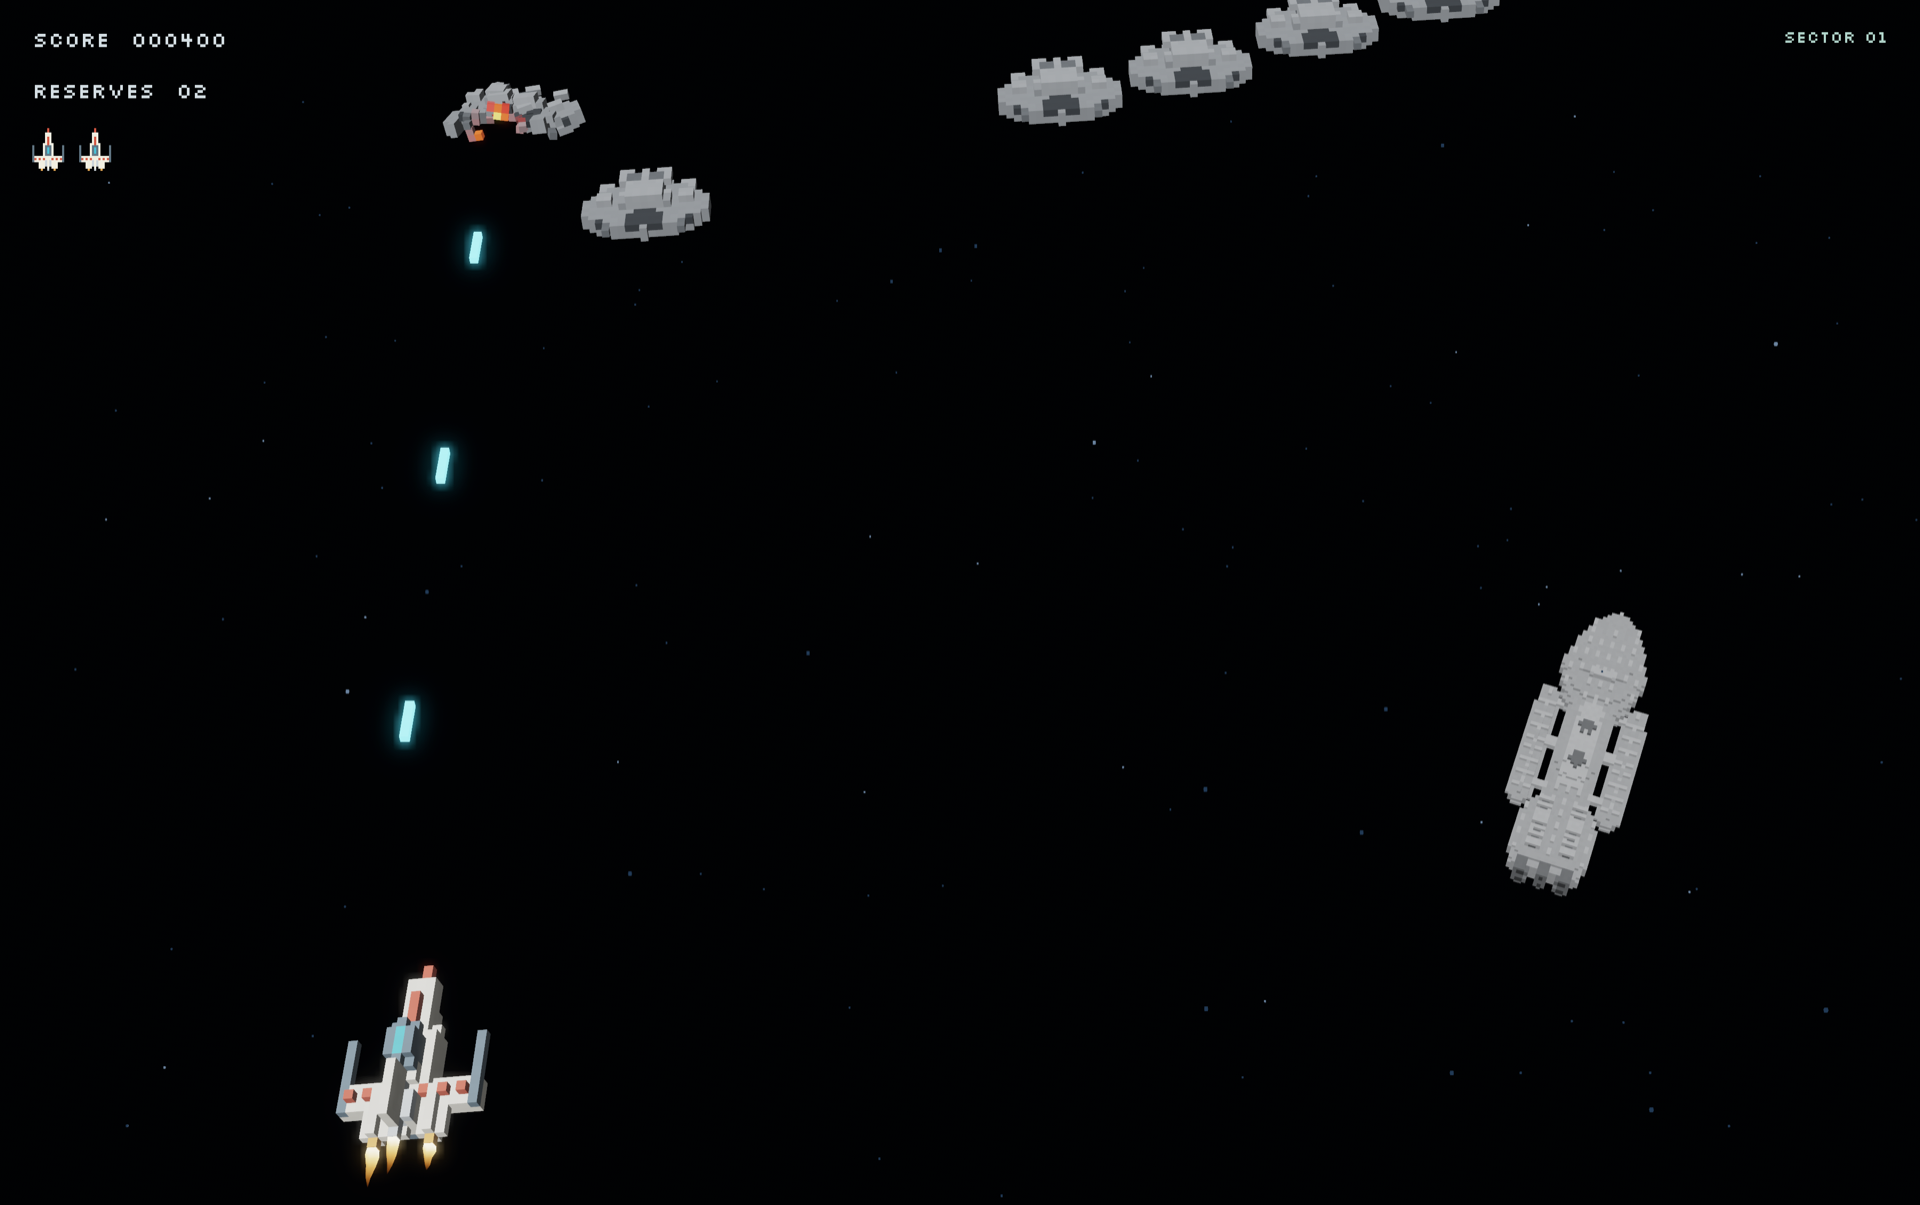
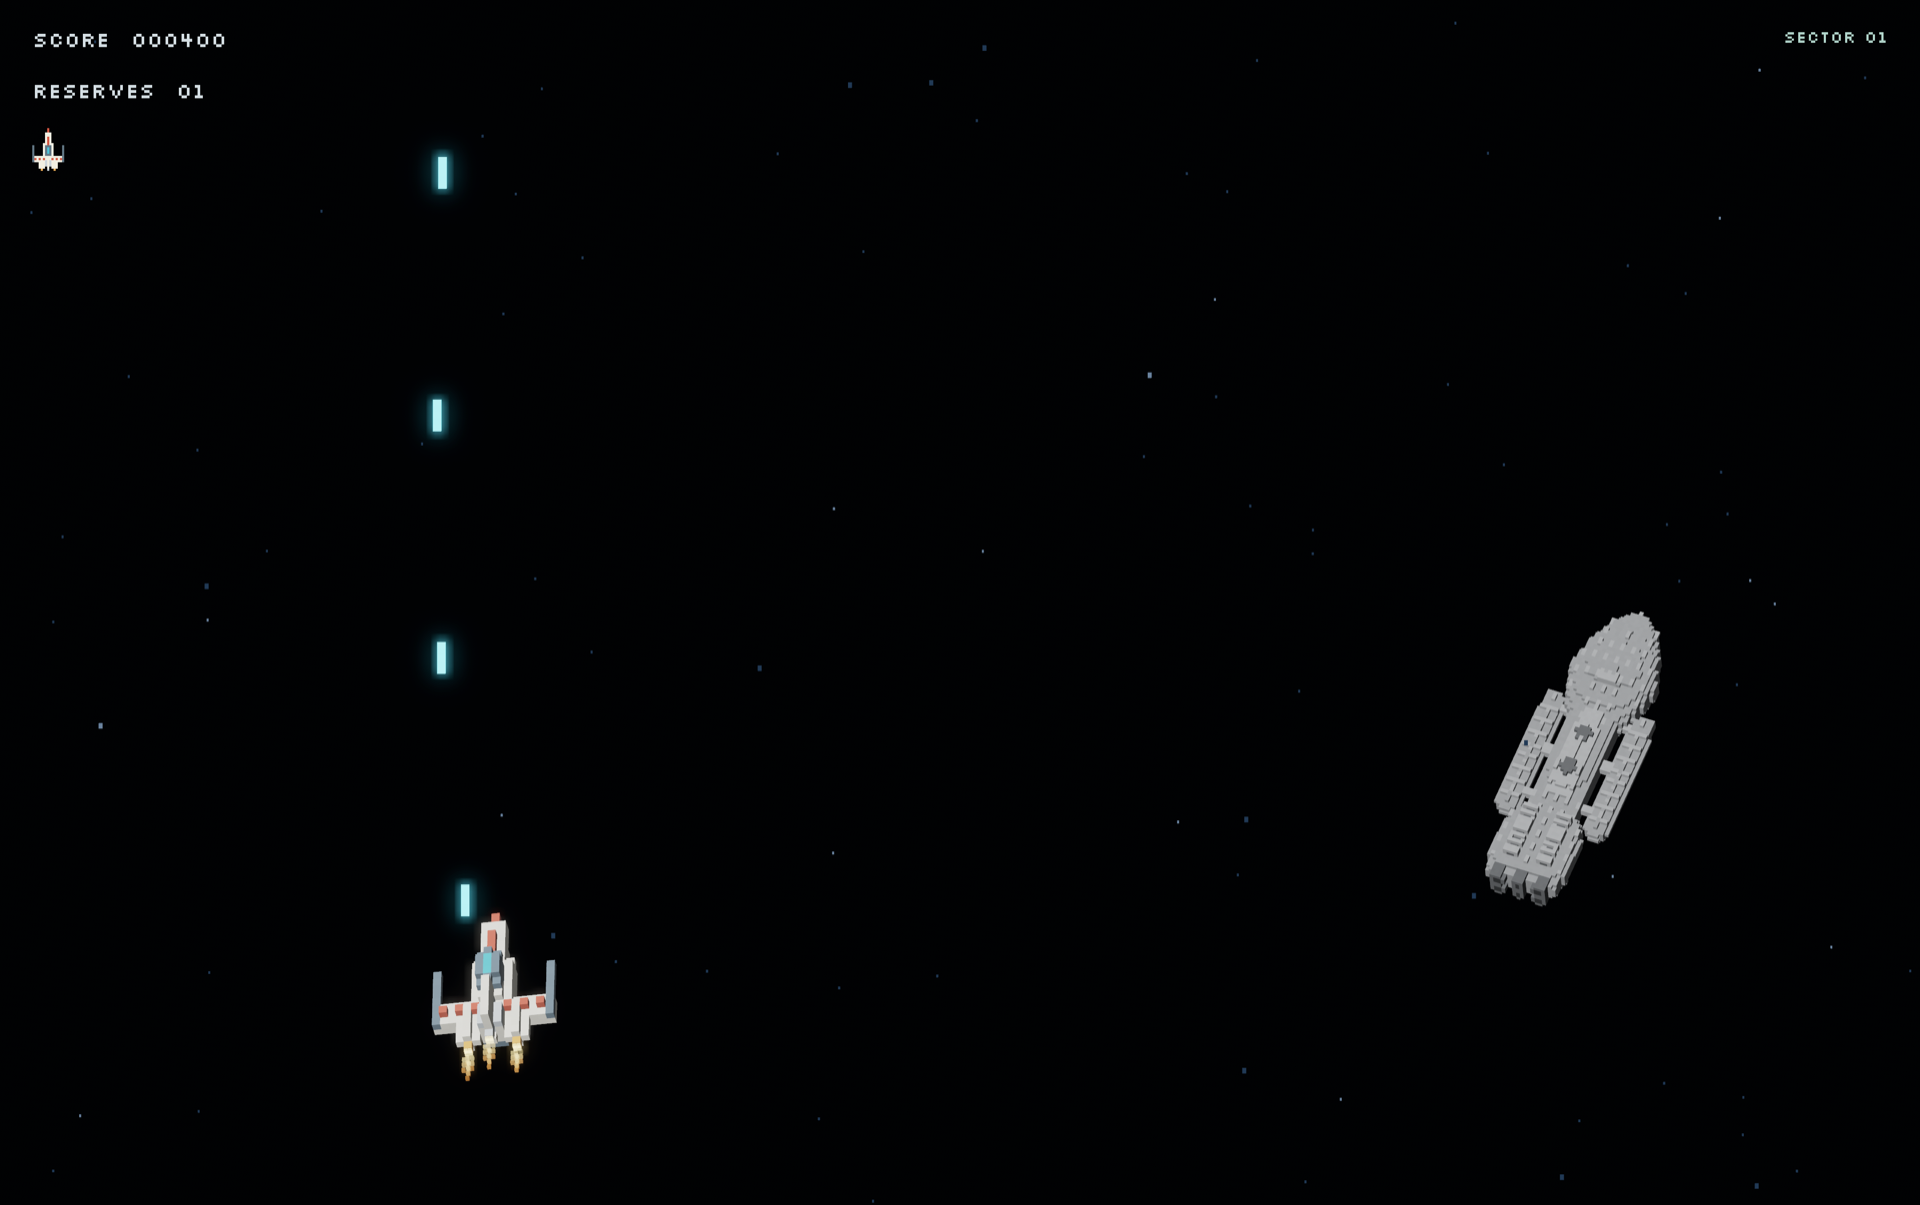
Document verified v0.4.3 desktop release and refreshed captures

diff --git a/docs/Release_Validation.md b/docs/Release_Validation.md
@@ -1,12 +1,28 @@
 # Desktop release validation · v0.4.3
 
-Mac build 16, verified 31-Oct-2026. All 90 pure tests, formatting and release graphics Clippy pass locally. Exhaust topology regression fails on the old connected 20-vertex skin and passes for independent cube faces with one fixed edge length; no triangles connect different exhaust cubes. Visible cubes flow while cycling through dim endpoints; the nozzle core remains lit and behind both hulls.
+Mac build 19, verified 31-Oct-2026. All 100 pure regression tests, formatting and release graphics Clippy pass locally. Tests reproduce the former depth misses and life-loss X reset, compare projected occupied-voxel collision against an independent convex-hull reference, and check both complete Galactica hulls across desktop, Retina, tall and ultrawide views.
 
-The complete native replay passes both eras, projectile colors, exhaust animation, collision/cooling/subdivision, pause/restart, resize, minimum-size menu and normal Quit Game shutdown. Across 152,405 unobstructed debris steps there were zero velocity/course changes and zero measured path error. All 219 split translation samples inherited velocity without impulse. Peak speed remains 36.000; no significant camera-approach steps occurred (maximum collision-skin correction 0.005633 world units, below the 0.01 diagnostic tolerance). Only actual hull contacts may change a trajectory.
+Rendering uses orthographic projection with angled voxel models. Cosmetic depth cannot shift drawn XY. Actual renderer audits check enemy/shot alignment, projectile ownership/color, leading-face contact alignment and continuous player visibility. The full native replay verifies nonfatal position continuity, both eras, exhaust, debris collision/cooling/subdivision, pause/restart, resizing and normal Quit Game shutdown. Seven native viewport/era checks confirm that the complete Galactica stays inside the view; its right-side position and apparent size match the earlier composition.
 
-At physical 1920×1080, 1,020 frames averaged 8.342 ms / p95 8.783 ms (about 120 FPS) on Apple M5. Complete 5,451-frame scenario mean 8.37 ms / p95 8.78 ms. These are bounded measurements, not universal hardware guarantees. Faster departure follows launch momentum; no artificial late steering, timed in-view deletion or geometry scaling was introduced.
+Exhaust consists of separate fixed-size glowing cubes, a steady nozzle core and irregular flowing streams. The topology regression rejects the former connected skin. Debris launches faster once and remains ballistic while unobstructed. Across 104,949 native unobstructed steps, velocity/course changes and path error were zero; all 257 split samples inherited translation without impulse. Peak speed was 36.000; there were no significant camera-approach steps. Maximum collision-skin correction was 0.005633 world units, below the 0.01 diagnostic tolerance. Genuine hull contacts may deflect fragments. Opaque geometry darkens into spatial shadow and retires only outside the viewport.
 
-Native Windows/Linux package jobs and final artifact receipts will be recorded after completion. Graphical gameplay on those systems remains untested. Existing private incorporated-audio, licensing and fan-rights boundaries remain applicable.
+At physical 1920×1080, 1,020 frames averaged 8.334 ms / p95 8.707 ms (about 120 FPS) on Apple M5. The complete 5,168-frame scenario averaged 8.37 ms / p95 8.74 ms. These are bounded hardware/workload measurements. Compiled source is `c0e7d554d2e0b40d42c710ecdf91c216c58d74e2`.
+
+The macOS bundle keeps its portable underscore filename and uses the localized display title “Battlestar: Voxel Squadron.” The final app and DMG are Developer ID signed, notarized, stapled and Gatekeeper-accepted. The installed app came from a read-only DMG mount and matches the native-tested signed executable. Windows/Linux native packages and independent archive checks pass. Each native runner passed all 100 tests and graphics Clippy before linking and packaging. Graphical Windows/Linux gameplay remains untested. Existing incorporated-audio, licensing and fan-rights boundaries remain applicable.
+
+## v0.4.3 Mac package identity
+
[1 lines of base64/hex data omitted]
+
+## v0.4.3 native package checks
+
+[Native Windows/Linux run](https://github.com/Kian-hdr/Battlestar_Voxel_Squadron/actions/runs/41198148699) and [source checks](https://github.com/Kian-hdr/Battlestar_Voxel_Squadron/actions/runs/41198148915) succeeded for the compiled source above.
+
+- Windows x64: PE32+ GUI executable, 254 files and 253 internal checksums; safe paths, source notices and approved embedded audio verified. Ordinary Git text files contain only expected CRLF conversion; byte-preserved notices remain exact. Windows is unsigned.
+- Linux x64: ELF64 native executable, 255 files and 254 internal checksums; executable/launcher modes, safe paths, source-pinned notices and approved embedded audio pass all 17 checks.
+- Mac Apple Silicon: final signed/notarized DMG and mounted/copied installed app pass the checks above.
+
+Three platform archives, their individual checksum files and aggregate `SHA256SUMS.txt` form seven release assets. Final documentation/screenshots are the only changes after the compiled source. Screenshots are actual final game captures resized to at most 1920 pixels; original captures are retained. No AI raster generation or content retouching was used. Windows/Linux graphical gameplay remains untested; native builds and archive checks are distinct from target-device gameplay.
 
 ## Historical v0.4.2 validation
 

diff --git a/README.md b/README.md
@@ -1,6 +1,6 @@
 # Battlestar: Voxel Squadron
 
-A native Rust 3D voxel arcade game by **Kian Konrad Tajbakhsh**. Fly a Viper, defend the fleet, and break Cylon formations. Ships are built from editable voxel cells, and destroyed hulls break into connected, cooling debris.
+A native Rust arcade game with 3D voxel ships by **Kian Konrad Tajbakhsh**. Fly a Viper, defend the fleet, and break Cylon formations. Ships are built from editable voxel cells, and destroyed hulls break into connected, cooling debris.
 
 ![Classic fleet combat](docs/Screenshots/Classic_Combat.png)
 
@@ -8,11 +8,11 @@ A native Rust 3D voxel arcade game by **Kian Konrad Tajbakhsh**. Fly a Viper, de
 
 Get the desktop packages from [GitHub Releases](https://github.com/Kian-hdr/Battlestar_Voxel_Squadron/releases). This is an early playable fan prototype.
 
-- **[macOS DMG, Apple Silicon](https://github.com/Kian-hdr/Battlestar_Voxel_Squadron/releases/download/v0.4.2/Battlestar_Voxel_Squadron_v0.4.2_macOS_Apple_Silicon.dmg):** open the DMG, drag `Battlestar_Voxel_Squadron.app` to Applications, then launch it.
-- **[Windows ZIP, x64](https://github.com/Kian-hdr/Battlestar_Voxel_Squadron/releases/download/v0.4.2/Battlestar_Voxel_Squadron_v0.4.2_Windows_x86_64.zip):** extract the ZIP and run `Battlestar_Voxel_Squadron.exe`.
-- **[Linux archive, x64](https://github.com/Kian-hdr/Battlestar_Voxel_Squadron/releases/download/v0.4.2/Battlestar_Voxel_Squadron_v0.4.2_Linux_x86_64.tar.gz):** extract the archive, install the runtime libraries listed in its README, and run `./Battlestar_Voxel_Squadron` in a graphical session with a Vulkan driver.
+- **[macOS DMG, Apple Silicon](https://github.com/Kian-hdr/Battlestar_Voxel_Squadron/releases/download/v0.4.3/Battlestar_Voxel_Squadron_v0.4.3_macOS_Apple_Silicon.dmg):** open the DMG, drag `Battlestar_Voxel_Squadron.app` to Applications, then launch it.
+- **[Windows ZIP, x64](https://github.com/Kian-hdr/Battlestar_Voxel_Squadron/releases/download/v0.4.3/Battlestar_Voxel_Squadron_v0.4.3_Windows_x86_64.zip):** extract the ZIP and run `Battlestar_Voxel_Squadron.exe`.
+- **[Linux archive, x64](https://github.com/Kian-hdr/Battlestar_Voxel_Squadron/releases/download/v0.4.3/Battlestar_Voxel_Squadron_v0.4.3_Linux_x86_64.tar.gz):** extract the archive, install the runtime libraries listed in its README, and run `./Battlestar_Voxel_Squadron` in a graphical session with a Vulkan driver.
 
-v0.4.2 fixes late depth targeting and the red impact-beam artifact, adds flowing tapered exhaust and receding debris, and includes Quit Game in the menu. See [release notes](docs/Release_Notes.md).
+v0.4.3 fixes strict 2D projectile hits and Viper position jumps, restores full Galactica framing, adds flowing voxel exhaust and fast straight-flight debris, and preserves the proper app display name and menu Quit Game. See [release notes](docs/Release_Notes.md).
 
 No account, server or internet connection is needed to play. [Validation notes](docs/Release_Validation.md) state which platforms were build-tested and which were played. Windows binaries are unsigned; SmartScreen may show an unknown-publisher warning.
 
@@ -31,7 +31,7 @@ The menu includes effects volume, mute and a sound preview. Default effects volu
 
 Three Vipers, 24 Raiders per wave, 100 points for a formation kill and 200 for a diving kill. Survive faster waves with bounded attack rates and brief respawn protection. Sectors 1–3 use the classic 1978 fleet; sector 4 onward changes the entire fleet to the reimagined 2004 era.
 
-The fixed-step simulation handles horizontal arcade combat while ships bank and avoid each other in 3D. Friendly fire follows aligned enemies in depth so cinematic flight height does not make them unreachable. Debris comes from actual model cells, remains in connected chunks, cools in flight and deflects from other hulls.
+The fixed-step simulation handles horizontal arcade combat while ships bank and avoid each other in 3D. Combat uses a strict 2D plane: shots hit the visible occupied voxel silhouette regardless of cosmetic depth. The orthographic camera retains angled voxel models without depth parallax. Debris comes from actual model cells, remains in connected chunks, cools in flight and deflects from other hulls.
 
 ![Menu](docs/Screenshots/Menu.png)
 ![Reimagined fleet](docs/Screenshots/Reimagined_Combat.png)

diff --git a/docs/Release_Notes.md b/docs/Release_Notes.md
@@ -1,9 +1,14 @@
-# v0.4.3 · Voxel exhaust and straight-flight debris
+# v0.4.3 · Strict 2D hits, stable Viper and voxel effects
+
+- Restored the Galactica’s full right-side framing and earlier apparent size; its complete hull stays visible as the window resizes.
 
 - Exhaust is now made from separate, fixed-size glowing cubes, with a steady voxel core and an irregular tapered stream. No smooth cone skin or static rods.
 - Debris launches faster with impact and hull momentum, then follows a straight constant-velocity path while unobstructed. Removed continuous background steering and delayed subdivision kicks.
 - Split fragments inherit parent translation and spin. Genuine hull contacts keep bounded deflections/escape slides; visible geometry still retires only outside the viewport and darkens in deep-space shadow.
-- The shot-depth/color fixes, stable Viper, menu Quit Game and existing audio mix are retained.
+- Shots use exact projected occupied voxel silhouettes independently of cosmetic depth. Rendering and the visible beam tip match the same 2D hit plane.
+- Nonfatal damage preserves the Viper position, momentum and rotation instead of resetting it to the center.
+- macOS shows “Battlestar: Voxel Squadron” as its localized app name while retaining the portable underscore filename.
+- Projectile colors, menu Quit Game and the existing audio mix are retained.
 
 See [release validation](Release_Validation.md) for actual measurements and platform coverage.
 
